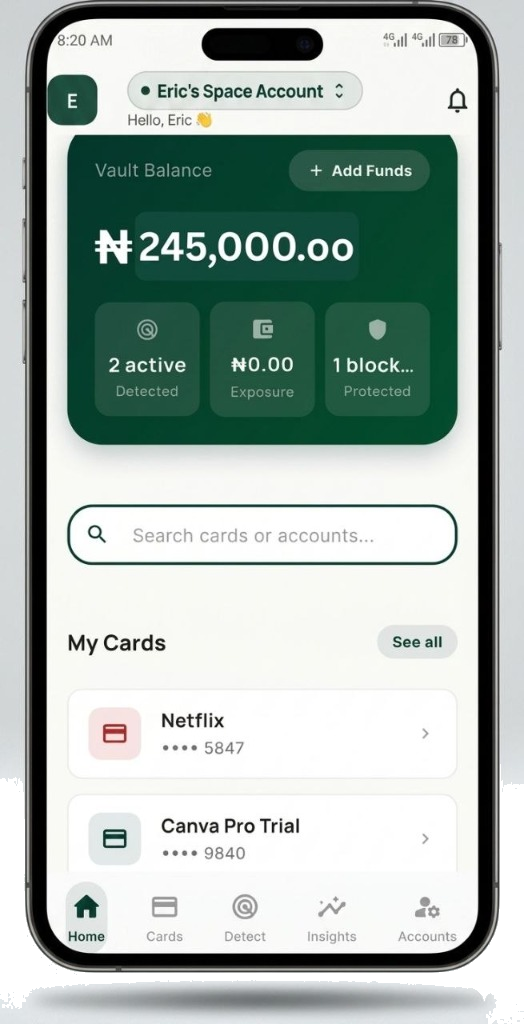
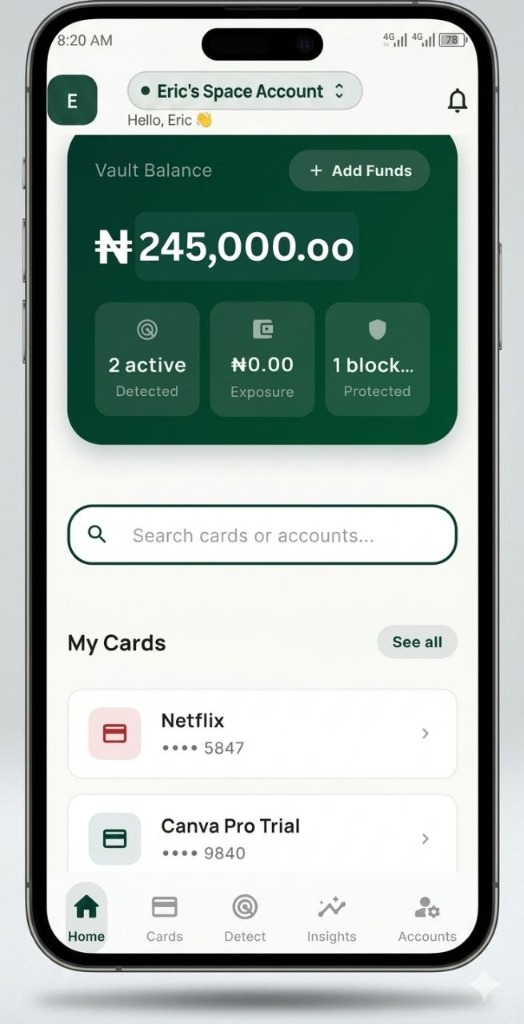
Restore anti-aliased mockups and use CSS mix-blend-multiply for seamless blending

diff --git a/src/components/HowItWorksSection.tsx b/src/components/HowItWorksSection.tsx
@@ -95,7 +95,7 @@ const HowItWorksSection = () => {
                src="/create_card_screen.png"
                alt="Gatekipa App - Create a card interface"
                fill
-               className="object-contain p-4 drop-shadow-2xl"
+               className="object-contain p-4 drop-shadow-2xl mix-blend-multiply"
              />
           </div>
         </div>

diff --git a/src/components/FeaturesSection.tsx b/src/components/FeaturesSection.tsx
@@ -110,7 +110,7 @@ const FeaturesSection = () => {
                src="/vault_balance.png"
                alt="Gatekipa Built to Control - Vault Balance"
                fill
-               className="object-contain p-4 drop-shadow-2xl"
+               className="object-contain p-4 drop-shadow-2xl mix-blend-multiply"
              />
           </div>
         </div>

diff --git a/src/components/SecuritySection.tsx b/src/components/SecuritySection.tsx
@@ -64,7 +64,7 @@ const SecuritySection = () => {
                src="/detect_screen.png"
                alt="Gatekipa Protected Money Vault - Detect Screen"
                fill
-               className="object-contain p-4 drop-shadow-2xl"
+               className="object-contain p-4 drop-shadow-2xl mix-blend-multiply"
              />
           </div>
 
